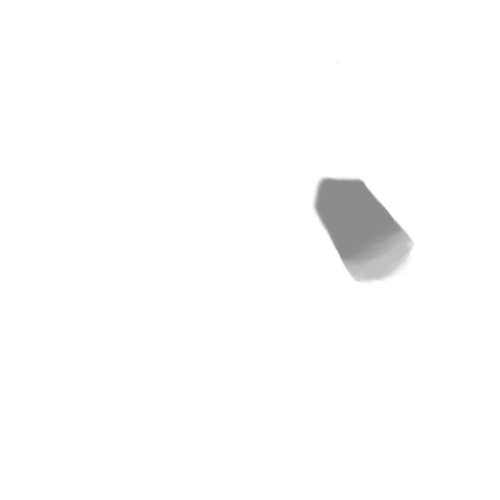
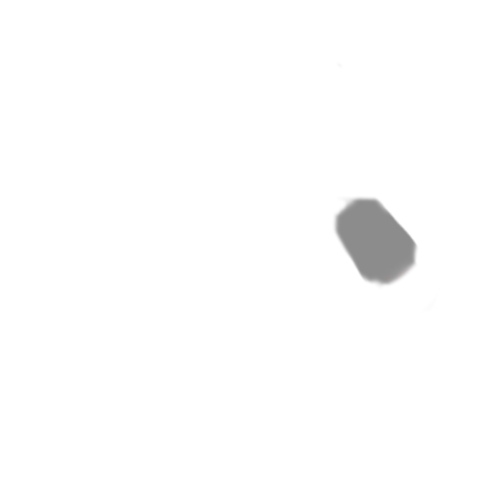
testing online secure login

Changed region(s): [[0.63, 0.33, 0.84, 0.57]]

diff --git a/src/js/pageContent.js b/src/js/pageContent.js
@@ -1,0 +1,69 @@
+const stepMapping = {
+  'receivePage': 'receive',
+  'ponderPage': 'ponder',
+  'planPage': 'plan',
+  'actPage': 'act',
+  'reviewPage': 'review',
+  'recordPage': 'record'
+};
+
+function fetchAndDisplayContent(step, pageId) {
+  // Check if user is logged in
+  const loggedIn = sessionStorage.getItem('loggedIn') === 'true';
+  console.log(`loggedIn: ${loggedIn}`);
+
+  if (loggedIn) {
+      // Get userId from session storage
+      const userId = sessionStorage.getItem('userId');
+      console.log(`userId: ${userId}`);
+      
+      // Check if userId is available
+      if (userId) {
+          const url = `https://seerstoneapi.onrender.com/inspirations/user_id/${userId}/step/${step}`;
+          console.log(`Fetching from URL: ${url}`);
+          
+          // Fetch data from the API
+          fetch(url, {
+              method: 'GET',
+              credentials: 'include', // Include credentials (cookies) in the request
+              headers: {
+                'Content-Type': 'application/json'
+              }
+          })
+              .then(response => {
+                  console.log(`HTTP status: ${response.status}`);
+                  if (!response.ok) {
+                      throw new Error(`HTTP error! status: ${response.status}`);
+                  }
+                  return response.json();
+              })
+              .then(data => {
+                  console.log(`Data received for ${pageId}:`, data);
+                  // Display the fetched data
+                  const contentDiv = document.getElementById(pageId).querySelector('.content');
+                  if (Array.isArray(data) && data.length > 0) {
+                      contentDiv.innerHTML = data.map(item => `<p>${item.evidence}</p>`).join(''); // Adjust according to your data structure
+                  } else {
+                      contentDiv.innerHTML = '<p>No data found</p>';
+                  }
+              })
+              .catch(error => {
+                  console.error('Error fetching data:', error);
+                  const contentDiv = document.getElementById(pageId).querySelector('.content');
+                  contentDiv.innerHTML = '<p>Error loading content</p>';
+              });
+      } else {
+          console.error('User ID is not available in session storage');
+      }
+  } else {
+      console.log('User is not logged in');
+  }
+}
+
+function fetchAllPagesContent() {
+  Object.entries(stepMapping).forEach(([pageId, step]) => {
+    fetchAndDisplayContent(step, pageId);
+  });
+}
+
+export { fetchAndDisplayContent, fetchAllPagesContent };

diff --git a/src/index.html b/src/index.html
@@ -62,34 +62,42 @@
         <div id="userPage" class="userPage">
           <div class="tab"><p>user</p></div>
           <h2>This is the user page</h2>
+          <div id="content" class="content"></div>
         </div>
         <div id="listenPage" class="listenPage">
         <div class="tab"><p>listen</p></div>
+        <div id="content" class="content"></div>
           <h2>This is the listen page</h2>
         </div>
         <div id="receivePage" class="receivePage">
           <div class="tab"><p>receive</p></div>
           <h2>This is the receive page</h2>
+          <div id="content" class="content"></div>
         </div>
         <div id="ponderPage" class="ponderPage">
           <div class="tab"><p>ponder</p></div>
           <h2>This is the ponder page</h2>
+          <div id="content" class="content"></div>
         </div>
         <div id="planPage" class="planPage">
           <div class="tab"><p>plan</p></div>
           <h2>This is the plan page</h2>
+          <div id="content" class="content"></div>
         </div>
         <div id="actPage" class="actPage">
           <div class="tab"><p>act</p></div>
           <h2>This is the act page</h2>
+          <div id="content" class="content"></div>
         </div>
         <div id="reviewPage" class="reviewPage">
           <div class="tab"><p>review</p></div>
           <h2>This is the review page</h2>
+          <div id="content" class="content"></div>
         </div>
         <div id="recordPage" class="recordPage">
           <div class="tab"><p>record</p></div>
           <h2>This is the record page</h2>
+          <div id="content" class="content"></div>
         </div>
       </div>
       <div class="paper">
@@ -99,8 +107,8 @@
         <div class="inkshadow"></div>
         <div class="paperMessage"></div>
       </div>
-      <div class="journal">
-      </div>
+      <div class="journalShadow"></div>
+      <div class="journal"></div>
     </main>
   </body>
   <script type="module" src="js/script.js"></script>
@@ -108,4 +116,5 @@
   <script type="module" src="js/login.js"></script>
   <script type="module" src="js/logout.js"></script>
   <script type="module" src="js/login-status.js"></script>
+  <script type="module" src="js/pageContent.js"></script>
 </html>

diff --git a/src/styles/mainStyles/journal.css b/src/styles/mainStyles/journal.css
@@ -4,23 +4,34 @@
   .journal {
     position: absolute;
     display: block;
-    top: 20vh;
-    right: 8vw;
+    top: 23vh;
+    right: 0vw;
     background-image: url("/images/redleatherjournal.png");
-    background-size: cover;
-    width: 43vw;
-    height: 60vh;
-    z-index: 3;
+    background-size: 100% 100%;
+    width: 18vw;
+    height: 50vh;
+    z-index: 1;
+    transform: rotate(-7deg);
+    animation: shiny-flicker .15s infinite;
   }
-  .journal::after {
+  .journalShadow {
+    display: block;
     content: "";
     position: absolute;
-    top: 0;
-    left: 0;
-    width: 100%;
-    height: 100%;
-    box-shadow: 2px 2px 2px rgba(0, 0, 0, 0.671); /* Initial flicker shadow */
-    animation: paper-flicker .15s infinite alternate;
+    top: 25vh;
+    right: -2vw;
+    width: 18vw;
+    height: 50vh;
+    transform: rotate(-7deg);
+    border-radius: 5px;
+    background: rgba(0, 0, 0, 0.847);
+    box-shadow: 
+        0 0 15px rgb(0, 0, 0),
+        0 0 15px rgb(0, 0, 0),
+        0 0 15px rgb(0, 0, 0);
+    animation: item-flicker .15s infinite alternate;
     pointer-events: none;
+    transition: box-shadow 0.5s ease;
+    z-index: 1;
   }
   

diff --git a/src/js/script.js b/src/js/script.js
@@ -1,8 +1,9 @@
 // this is the initial javascript
 
-import { flipCover, flipLogin, flipRegistration, revertCoverText, zoomBookLoggedIn, turnToPage } from "./bookAnimations.js";
+import { flipCover, flipLogin, flipRegistration, zoomBookLoggedIn, turnToPage } from "./bookAnimations.js";
 import { fadeIn, fadeOut } from "./stoneAnimations.js";
 import { updateFeatherPosition, resetFeather, allowFeatherMovement } from './featherFollow.js';
+import { fetchAllPagesContent } from "./pageContent.js";
 
 // Initialize session storage
 function initializeSessionStorage() {
@@ -42,6 +43,10 @@ document.addEventListener('mouseleave', () => {
 });
 
 document.addEventListener("DOMContentLoaded", function () {
+  // Fetch and display content for all pages
+
+  fetchAllPagesContent();
+
     // Initialize session storage
     initializeSessionStorage();
     const beginButton = document.getElementById("begin");

diff --git a/src/styles/mainStyles/paper.css b/src/styles/mainStyles/paper.css
@@ -45,7 +45,8 @@
     left: 20px; /* Initial position */
     top: -20px;  /* Initial position */
     z-index: 1;
-    transition: transform 0.2s ease, left 0.2s ease, top 0.2s ease; /* Smooth transition */
+    transition: transform 0.2s ease, left 0.2s ease, top 0.2s ease;
+    animation: stone-flicker .15s infinite alternate;
     pointer-events: none;
   }
   
@@ -69,6 +70,7 @@
     width: 450px;
     height: 400px;
     z-index: 1;
+    animation: item-flicker .15s infinite alternate;
   }
   .inkshadow {
     background-image: url("/images/inkshadow.png");
@@ -77,7 +79,7 @@
     width: 450px;
     height: 400px;
     margin-top: 0px;
-    margin-left: 45px;
+    margin-left: 25px;
     animation: item-flicker .15s infinite alternate;
     z-index: 0;
     transform: rotate(-40deg);

diff --git a/src/styles/headerStyles/stone.css b/src/styles/headerStyles/stone.css
@@ -36,15 +36,16 @@
   .stoneShadow {
     display: block;
     position: absolute;
-    top: 25px;
-    right: 100px;
-    width: 100px;
-    height: 100px;
+    top: -20px;
+    right: 30px;
+    width: 200px;
+    height: 200px;
     content: "";
-    background-color: rgba(0, 0, 0, 0.641);
-    box-shadow: 20px 20px 20px rgba(0, 0, 0, 0.641);
-    border-radius: 100px;
-    animation: item-flicker  .15s infinite alternate;
+    background: 
+        radial-gradient(circle, rgb(0, 0, 0) 0%, rgba(0, 0, 0, 0) 60%),
+        radial-gradient(circle, rgb(0, 0, 0) 0%, rgba(0, 0, 0, 0) 60%);
+    background-size: 100% 100%;
+    animation: item-flicker .15s infinite alternate;
     pointer-events: none;
     rotate: -20deg;
     z-index: 2;

diff --git a/src/styles/cssAnimations/animations.css b/src/styles/cssAnimations/animations.css
@@ -26,6 +26,21 @@
       filter: brightness(100%);
     }
 }
+  /* Keyframes for the brightness effect */
+  @keyframes shiny-flicker {
+    0% {
+      filter: brightness(100%);
+      filter: contrast(115%);
+    }
+    50% {
+      filter: brightness(105%);
+      filter: contrast(110%);
+    }
+    100% {
+      filter: brightness(100%);
+      filter: contrast(115%);
+    }
+}
 @keyframes item-flicker {
     0% {
         opacity: 0.9;

diff --git a/src/js/bookAnimations.js b/src/js/bookAnimations.js
@@ -1,4 +1,5 @@
 import { fadeOut, fadeIn } from "./stoneAnimations.js";
+import { fetchAndDisplayContent } from "./pageContent.js";
  
  //Function to flip book cover
  function flipCover() {
@@ -329,6 +330,8 @@ function zoomBookLoggedIn() {
   userPage.classList.add('no-shadow');
 }
 
+
+//funtion to turn to a specific page
 function turnToPage(targetPageId) {
   const pages = [
     'userPage',

diff --git a/src/styles/bookStyles/cover.css b/src/styles/bookStyles/cover.css
@@ -28,7 +28,7 @@
     background-size: 100% 100%;
     border-radius: 3px;
     filter: contrast(120%);
-    animation: face-flicker .15s infinite;
+    animation: shiny-flicker .15s infinite;
   }
   .cover h1,
   .cover h2,

diff --git a/src/styles/bookStyles/book.css b/src/styles/bookStyles/book.css
@@ -51,3 +51,9 @@
     color: rgba(48, 31, 16, 0.675);
   }
 
+  .content {
+    font-weight: bold;
+    color: rgba(72, 52, 37, 0.686);
+    font-size: 1.2rem;
+  }
+

diff --git a/src/styles/mainStyles/main.css b/src/styles/mainStyles/main.css
@@ -1,4 +1,5 @@
 @import url('paper.css');
+@import url('journal.css');
 
 main {
     display: flex;
